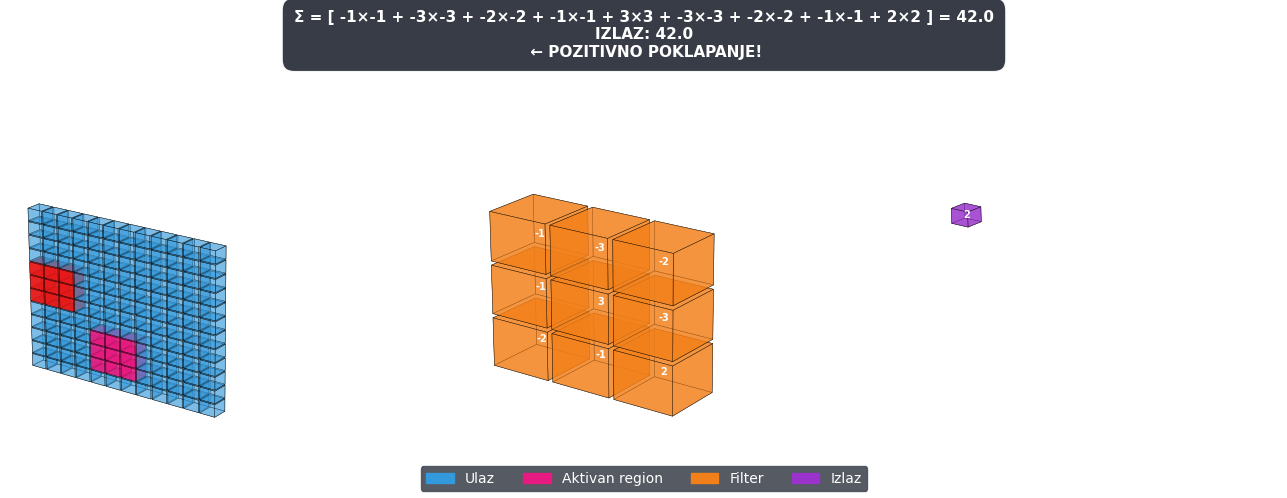
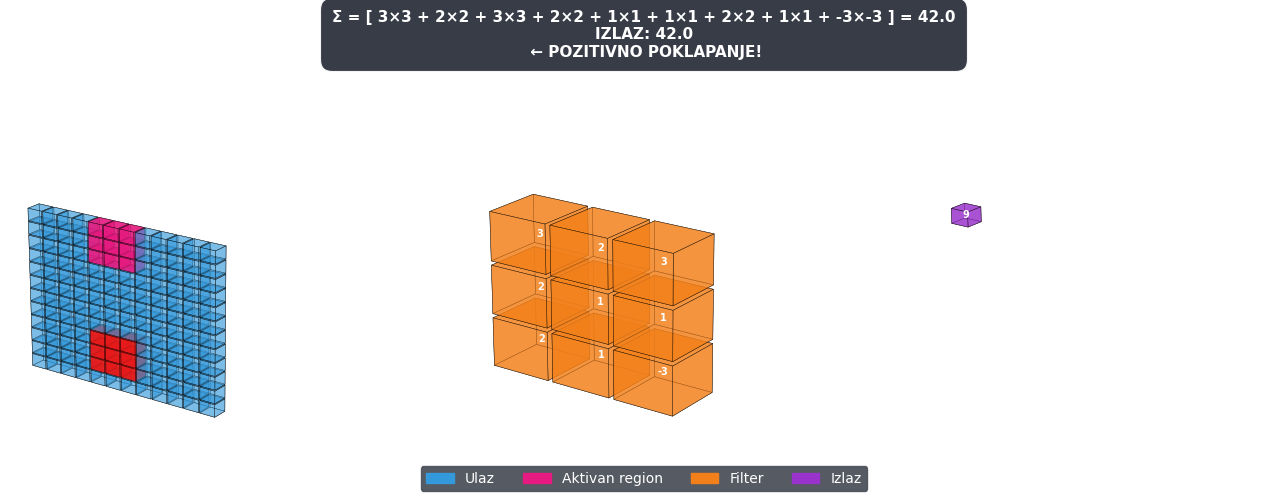
fixed gui

Changed region(s): [[0.2176, 0.0, 0.8081, 0.1506], [0.0, 0.4217, 0.1243, 0.6325], [0.0622, 0.6627, 0.1243, 0.7831]]

diff --git a/visualization/renderer_3d.py b/visualization/renderer_3d.py
@@ -15,8 +15,8 @@ COLOR_POSITIVE = (0.10, 0.90, 0.10, 0.80)  # jarko zelena
 COLOR_NEGATIVE = (0.90, 0.10, 0.10, 0.80)  # crvena
 COLOR_EDGE = (0.0, 0.0, 0.0, 0.8)  # crna ivica
 
-# Stil za okvir u kom se ispisuje formula - tamna pozadina, bela ivica, razvučeno
-FORMULA_BBOX = dict(boxstyle="round,pad=0.8", fc="#2c313c", ec="white", lw=1.5, alpha=0.95)
+# POVEĆAN OKVIR: pad=1.2 i deblja ivica (lw=2)
+FORMULA_BBOX = dict(boxstyle="round,pad=1.2", fc="#2c313c", ec="white", lw=2, alpha=0.95)
 
 
 def _cube_faces(x0: float, y0: float, z0: float, s: float) -> list:
@@ -80,7 +80,7 @@ def _draw_block(
                     cy = y0 + c * (cell_size + channel_gap) + s / 2
                     cz = z0 + (rows - 1 - r) * cell_size + s / 2
                     ax.text(cx, cy, cz, value_fmt.format(val), ha='center', va='center',
-                            fontsize=7, fontweight='bold', color='white', zorder=5)
+                            fontsize=13, fontweight='bold', color='white', zorder=5)
 
 
 def _set_ax_limits(ax, max_ext: float):
@@ -119,7 +119,6 @@ def _build_detailed_formula(region, filt, ch_sums, total_sum, bias, output_val):
 
     # Svaki kanal ispisujemo u jednoj širokoj liniji!
     for c in range(C):
-        # Spajamo sve elemente matrice za kanal C u jedan dugačak string
         r_flat = region[:, :, c].flatten()
         f_flat = filt[:, :, c].flatten()
 
@@ -165,13 +164,13 @@ def render_convolution(fig: Figure, engine, step: dict) -> None:
     _draw_block(axes[1], filt, origin=(0, 0, 0), face_color=COLOR_FILTER, value_fmt="{:.0f}", channel_gap=1.5)
     axes[1].set_title("FILTER", fontsize=11, fontweight='bold', pad=10, color='white')
 
-    # --- FORMULA: Postavljena direktno na FIGURE, skroz gore (y=0.97) ---
+    # --- FORMULA: Postavljena direktno na FIGURE ---
     formula = _build_detailed_formula(step["region"], filt, step['ch_sums'], step['conv_sum'], engine.bias,
                                       step['output_val'])
 
-    # Smanji font ako je filter veliki da bi stalo u širinu
-    f_size = 11 if F <= 3 else 9
-    fig.text(0.5, 0.97, formula, ha='center', va='top', color='white', fontsize=f_size, fontweight='bold',
+    # Smanji font samo ako je filter veliki da bi stalo u širinu, inače je veliki font 16
+    f_size = 16 if F <= 3 else 12
+    fig.text(0.5, 0.98, formula, ha='center', va='top', color='white', fontsize=f_size, fontweight='bold',
              bbox=FORMULA_BBOX)
 
     _draw_block(axes[2], out, origin=(0, 0, 0), face_color=COLOR_OUTPUT, value_fmt="{:.0f}", channel_gap=1.5)
@@ -186,8 +185,8 @@ def render_convolution(fig: Figure, engine, step: dict) -> None:
         ax.view_init(elev=20, azim=-55)
 
     _add_legend(fig)
-    # Spuštamo grafike dole (top: 0.82) da oslobodimo 18% ekrana na vrhu za formulu
-    fig.tight_layout(rect=[0, 0.05, 1, 0.82])
+    # Dodatno spuštanje grafika (top=0.78 umesto 0.82) zbog ogromnog okvira za formulu na vrhu
+    fig.tight_layout(rect=[0, 0.05, 1, 0.78])
 
 
 # ==================================================================
@@ -224,7 +223,7 @@ def render_pooling(fig: Figure, engine, step: dict) -> None:
         pairs = [f"{r_flat[i]:.0f}×{w_flat[i]:.0f}" for i in range(len(r_flat))]
         formula = f"W_AVG = [ {' + '.join(pairs)} ] / Suma_težina({np.sum(engine.weights)}) = {result:.2f}"
 
-    fig.text(0.5, 0.97, formula, ha='center', va='top', color='white', fontsize=11, fontweight='bold',
+    fig.text(0.5, 0.98, formula, ha='center', va='top', color='white', fontsize=16, fontweight='bold',
              bbox=FORMULA_BBOX)
 
     ax_idx = 1
@@ -243,7 +242,7 @@ def render_pooling(fig: Figure, engine, step: dict) -> None:
         ax.view_init(elev=20, azim=-55)
 
     _add_legend(fig)
-    fig.tight_layout(rect=[0, 0.05, 1, 0.82])
+    fig.tight_layout(rect=[0, 0.05, 1, 0.78])
 
 
 # ==================================================================
@@ -285,7 +284,7 @@ def render_pattern(fig: Figure, engine, step: dict, filter_idx: int) -> None:
     if label:
         formula += f"\n{label}"
 
-    fig.text(0.5, 0.97, formula, ha='center', va='top', color='white', fontsize=11, fontweight='bold',
+    fig.text(0.5, 0.98, formula, ha='center', va='top', color='white', fontsize=16, fontweight='bold',
              bbox=FORMULA_BBOX)
 
     _draw_block(axes[2], engine.output_maps[filter_idx], origin=(0, 0, 0), face_color=COLOR_OUTPUT, value_fmt="{:.0f}")
@@ -296,4 +295,4 @@ def render_pattern(fig: Figure, engine, step: dict, filter_idx: int) -> None:
         ax.view_init(elev=20, azim=-55)
 
     _add_legend(fig)
-    fig.tight_layout(rect=[0, 0.05, 1, 0.82])
+    fig.tight_layout(rect=[0, 0.05, 1, 0.78])

diff --git a/gui/app.py b/gui/app.py
@@ -49,7 +49,7 @@ class MainWindow(QMainWindow):
         # --- LEVI PANEL: Tabovi i Kontrole ---
         left_panel = QWidget()
         # 1. POVEĆANA ŠIRINA NA 500px DA BI STAO FONT OD 25px!
-        left_panel.setFixedWidth(500)
+        left_panel.setFixedWidth(600)
         left_layout = QVBoxLayout(left_panel)
         left_layout.setContentsMargins(0, 0, 0, 0)
 
@@ -57,6 +57,15 @@ class MainWindow(QMainWindow):
         # 2. OVE DVE LINIJE FORSIRAJU TABOVE DA STANU BEZ STRELICA!
         self.tabs.tabBar().setExpanding(True)
         self.tabs.setUsesScrollButtons(False)
+        self.tabs.setStyleSheet("""
+                    QTabBar::tab {
+                        width: 196px;       /* Širina svakog taba */
+                        height: 40px;       /* Opciono: visina taba da izgleda masivnije */
+                        font-size: 25px;    /* Opciono: povećaš font naslova taba */
+                        
+                    }
+                """)
+
 
         # Tab 1: Konvolucija
         self.tab_conv = QWidget()
@@ -67,9 +76,11 @@ class MainWindow(QMainWindow):
         self.tab_pool = QWidget()
         self.tabs.addTab(self.tab_pool, "Pooling")
 
+
         # Tab 3: Pattern
         self.tab_pattern = QWidget()
         self.tabs.addTab(self.tab_pattern, "Detekcija")
+
 
         left_layout.addWidget(self.tabs)
 
@@ -186,7 +197,7 @@ class MainWindow(QMainWindow):
         main_vbox.addSpacing(20)
 
         # Veliko, centrirano dugme
-        btn_generate = QPushButton("Generiši novo")
+        btn_generate = QPushButton("Generiši")
         btn_generate.setMinimumHeight(60)  # Veće i lakše za kliknuti
         btn_generate.setStyleSheet("""
             background-color: #528bff; 